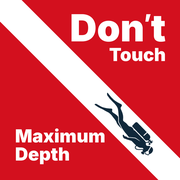
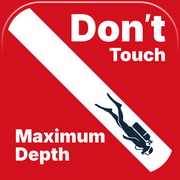
scuba: DTMD 아이콘 반사띠·테두리, 홈 화면 앱 시작 화면(빨강) 추가
Claude-Session: https://claude.ai/code/session_012p9REkySXWDQWjg52q6Xem

Changed region(s): [[0.0, 0.0, 0.9722, 0.25], [0.8333, 0.8333, 1.0, 1.0], [0.9722, 0.1389, 1.0, 0.25]]

diff --git a/scuba.html b/scuba.html
@@ -13,6 +13,17 @@
 <link rel="apple-touch-icon" href="/dtmd-icon-180.png">
 <link rel="manifest" href="/dtmd.webmanifest">
 <meta name="apple-mobile-web-app-title" content="DTMD">
+<link rel="apple-touch-startup-image" href="/dtmd-launch/1320x2868.png" media="(device-width: 440px) and (device-height: 956px) and (-webkit-device-pixel-ratio: 3) and (orientation: portrait)">
+<link rel="apple-touch-startup-image" href="/dtmd-launch/1260x2736.png" media="(device-width: 420px) and (device-height: 912px) and (-webkit-device-pixel-ratio: 3) and (orientation: portrait)">
+<link rel="apple-touch-startup-image" href="/dtmd-launch/1290x2796.png" media="(device-width: 430px) and (device-height: 932px) and (-webkit-device-pixel-ratio: 3) and (orientation: portrait)">
+<link rel="apple-touch-startup-image" href="/dtmd-launch/1206x2622.png" media="(device-width: 402px) and (device-height: 874px) and (-webkit-device-pixel-ratio: 3) and (orientation: portrait)">
+<link rel="apple-touch-startup-image" href="/dtmd-launch/1179x2556.png" media="(device-width: 393px) and (device-height: 852px) and (-webkit-device-pixel-ratio: 3) and (orientation: portrait)">
+<link rel="apple-touch-startup-image" href="/dtmd-launch/1284x2778.png" media="(device-width: 428px) and (device-height: 926px) and (-webkit-device-pixel-ratio: 3) and (orientation: portrait)">
+<link rel="apple-touch-startup-image" href="/dtmd-launch/1170x2532.png" media="(device-width: 390px) and (device-height: 844px) and (-webkit-device-pixel-ratio: 3) and (orientation: portrait)">
+<link rel="apple-touch-startup-image" href="/dtmd-launch/1242x2688.png" media="(device-width: 414px) and (device-height: 896px) and (-webkit-device-pixel-ratio: 3) and (orientation: portrait)">
+<link rel="apple-touch-startup-image" href="/dtmd-launch/1125x2436.png" media="(device-width: 375px) and (device-height: 812px) and (-webkit-device-pixel-ratio: 3) and (orientation: portrait)">
+<link rel="apple-touch-startup-image" href="/dtmd-launch/828x1792.png" media="(device-width: 414px) and (device-height: 896px) and (-webkit-device-pixel-ratio: 2) and (orientation: portrait)">
+<link rel="apple-touch-startup-image" href="/dtmd-launch/750x1334.png" media="(device-width: 375px) and (device-height: 667px) and (-webkit-device-pixel-ratio: 2) and (orientation: portrait)">
 <meta name="description" content="3분 강의 / 초보를 위한 무감압·감압 / 컵라면 익기전에 다 배움">
 <meta property="og:title" content="DTMD 다이빙 플래너">
 <meta property="og:type" content="website">

diff --git a/SCUBA_HANDOFF.md b/SCUBA_HANDOFF.md
@@ -87,3 +87,5 @@
 - 파일: dtmd-icon-180.png(apple-touch-icon) · dtmd-icon-192/512.png(manifest) · dtmd-favicon-16/32/48.png(문구 없는 버전, 크롬 탭·즐겨찾기바) · dtmd.webmanifest(start_url·scope /scuba, short_name DTMD).
 - scuba.html head에 icon·apple-touch-icon·manifest·apple-mobile-web-app-title(DTMD) 추가. 다른 하위 페이지는 사용 안 함(사용자) → 그대로.
 - 이미 홈 화면에 추가한 아이콘은 지우고 다시 추가해야 바뀜. 브라우저 즐겨찾기 아이콘은 캐시 때문에 늦게 바뀔 수 있음.
+- 14:20 수정: 아이콘에 위쪽 전체·왼쪽 위 모서리 흰 반사띠(진하게) + 흰 띠 양 끝을 둥근 테두리(빨강 3.5%) 안에서 끝나게. 다이버는 두 다리·오리발 모두 보이는 버전.
+- 시작 화면(홈 화면 앱이 열릴 때): 빨간 바탕(#d3101e) + 가운데 아이콘(화면 폭 36%) 이미지 11종 `dtmd-launch/{W}x{H}.png`, scuba.html에 apple-touch-startup-image(기종별 media). manifest background_color도 빨강. iOS 버전에 따라 무시될 수 있음(효과 미확인). 이미 추가한 홈 화면 아이콘은 지우고 다시 추가해야 반영.
